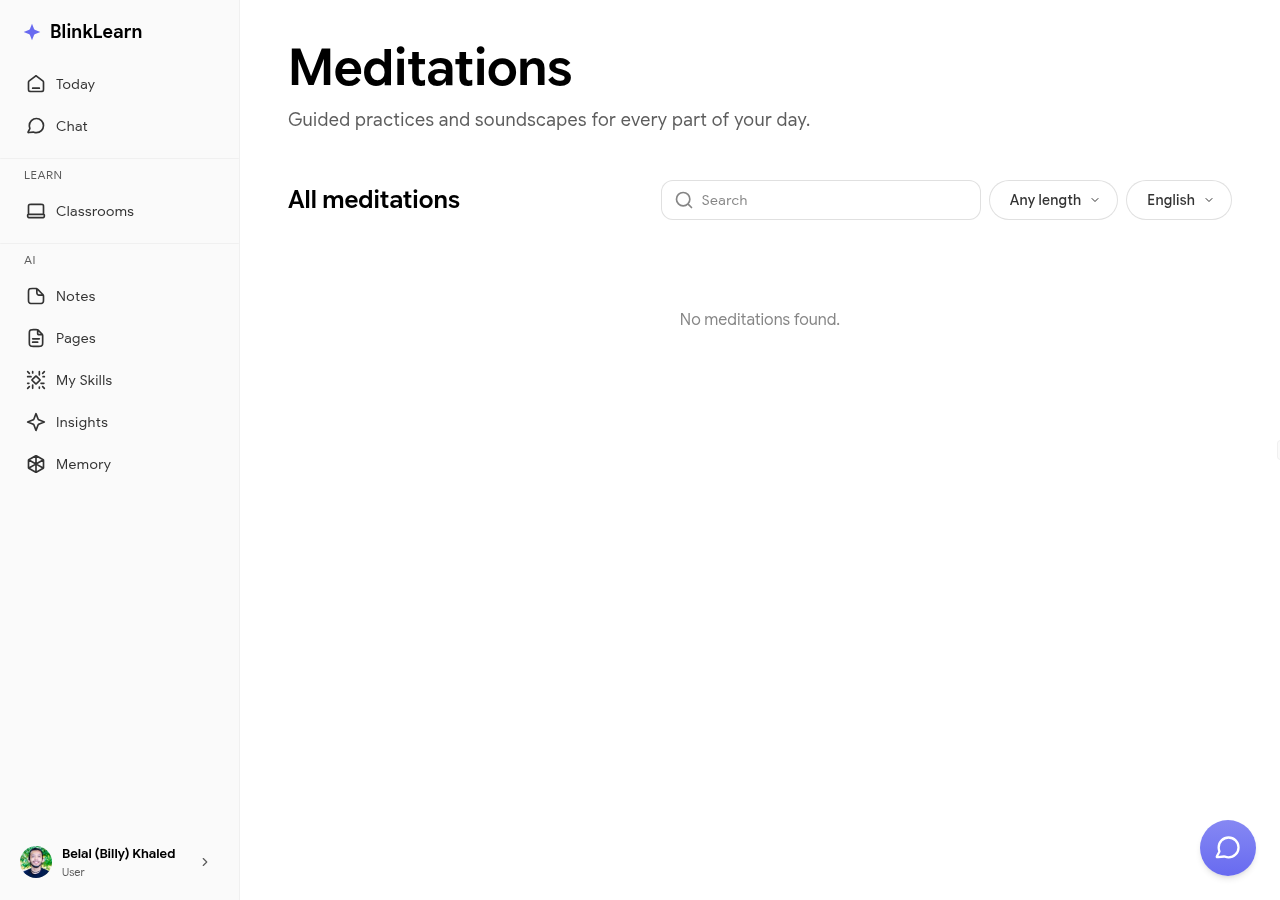
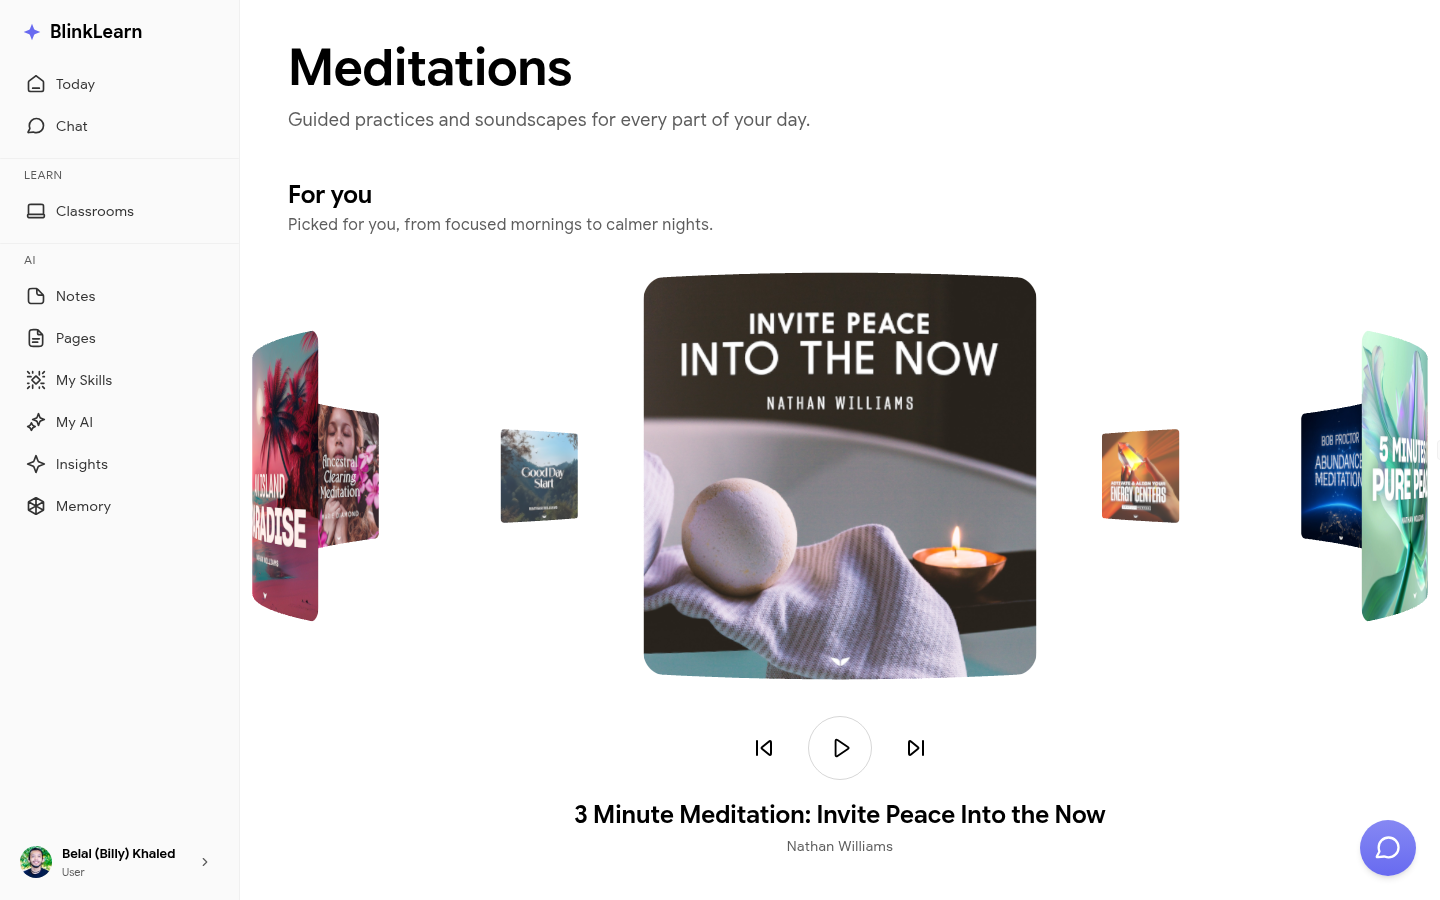
docs: apply EM feedback across Finerminds, BlinkLearn, BlinkLife
Finerminds:
- Add invite-only banner to creating-account.md; remove incorrect open sign-up section

BlinkLearn:
- Rewrite my-ai.md to document all three tabs (Personality, Profile, My Human) with actual UI content observed in the app
- Refresh meditations.png and my-ai.png screenshots (meditations now shows populated catalog)
- Remove /listener and /goals from features index (not discoverable/exposed to users)

BlinkLife:
- Add homepage hero image to index.md
- Add Bridge & WhatsApp coming-soon note to integrations index

diff --git a/docs/blinklearn/features/my-ai.md b/docs/blinklearn/features/my-ai.md
@@ -1,21 +1,71 @@
 # My AI
 
-**My AI** is where you personalise your AI companion Sandra — her name, communication style, and how she interacts with you.
+**My AI** is where you personalise your AI companion Sandra — her name, voice, personality, and how she understands you. Open it from the sidebar.
 
-![My AI settings](../img/my-ai.png)
+![My AI — Personality tab](../img/my-ai.png)
 
-## Companion settings
+My AI has three tabs: **Personality**, **Profile**, and **My Human**.
 
-In My AI you can:
+---
 
-- **Rename your companion** — give Sandra a custom name that feels right for you
-- **Adjust her style** — choose how formal or casual her responses are
-- **Set preferences** — tell Sandra what kinds of nudges and suggestions you find most helpful
+## Personality tab
 
-## Why personalisation matters
+The Personality tab controls how Sandra behaves in conversation. It has two modes:
 
-Sandra's effectiveness grows as she learns about you. The settings in My AI let you guide that process — telling her upfront how you like to communicate and what you're focused on.
+- **Structured** — set a named archetype (e.g. Friend, Coach, Mentor) that drives Sandra's communication style
+- **Soul.md** — write free-form instructions in markdown for full control over her tone and behaviour
 
-## Resetting your companion
+### Archetype
 
-If you want to start fresh, you can reset your companion's personalisation from the My AI page. This clears her stored preferences but keeps your learning history intact.
+Choose one of the preset archetypes as Sandra's baseline character. Each archetype comes with a set of default communication rules. Click **Change** to switch to a different archetype.
+
+### How Sandra Communicates
+
+A list of editable rules that govern Sandra's style — things like tone, humour, and how she handles feedback. Rules are tagged with the archetype they came from. You can add custom rules with **+ Add** or delete any rule individually.
+
+### Learned Adaptations
+
+Sandra picks up patterns from your conversations automatically and stores them here. These are distinct from rules you set manually — they reflect how Sandra has naturally adapted to you over time.
+
+### Boundaries
+
+Rules about what Sandra won't do, regardless of archetype. Use this to set hard limits on topics or behaviour.
+
+### Custom Instructions
+
+Free-form text that Sandra always considers, regardless of the active archetype. Use this for context that doesn't fit into a specific rule.
+
+---
+
+## Profile tab
+
+The Profile tab controls Sandra's identity and voice.
+
+### Identity
+
+Set Sandra's name and avatar. The name appears throughout the app and in chat. Change it to anything that feels right for you.
+
+### Voice
+
+Choose how Sandra sounds in voice mode. Six options are available:
+
+| Voice | Style |
+|-------|-------|
+| Zara | Confident and direct |
+| Mia | Bright and articulate |
+| Lena | Gentle and conversational |
+| Kai | Energetic and expressive |
+| Leo | Deep and unhurried |
+| Theo | Grounded and clear |
+
+Click the play button next to any voice to preview it, then click **Save Changes**.
+
+---
+
+## My Human tab
+
+The My Human tab shows Sandra's model of you — a structured summary of what she has learned about you from your conversations, notes, and learning history.
+
+Click **Generate Profile** to have Sandra produce this summary. If no profile exists yet, she will build one from your existing memories.
+
+You can view the full memory list that feeds into this profile by clicking **View all memories →**, which takes you to [Memories](memories.md).

diff --git a/docs/finerminds/getting-started/creating-account.md b/docs/finerminds/getting-started/creating-account.md
@@ -1,13 +1,17 @@
 # Creating Your Account
 
-Go to [finerminds.com](https://www.finerminds.com) and click **Log in** to create a new account or sign in to an existing one.
+!!! info "Invite-only access"
+    Finerminds is currently invite-only. There is no self-service sign-up. To request access, contact your Mindvalley team admin or ask an existing member to send you an invitation.
 
-## Sign-up options
+## Joining via invitation
 
-Finerminds supports the following sign-in methods:
+When a network admin sends you an invite link:
 
-- **Google** — click **Continue with Google** and select your Google account
-- **Email and password** — enter your email address, then follow the steps to set a password
+1. Open the link in your browser
+2. Sign in with your Mindvalley account (Google or email) or create one if you don't have one yet
+3. You'll be added to the network automatically after signing in
+
+If you already use other Mindvalley products (BlinkLearn, BlinkLife, etc.), use the same email address — your account works across the platform.
 
 ## First-time setup
 
@@ -19,10 +23,6 @@ After signing in for the first time you will be prompted to complete your profil
 4. Add any social links you want to share with the community
 
 You can skip any of these steps and complete them later from [Edit profile](../account/editing-profile.md).
-
-## Joining via invitation
-
-If a network admin sent you an invite link, open it in your browser. You will be asked to sign in or create an account before being added to that network automatically.
 
 ## Already have a Mindvalley account?
 

diff --git a/docs/blinklife/integrations/index.md b/docs/blinklife/integrations/index.md
@@ -9,6 +9,10 @@ Connect BlinkLife with tools you already use to bring your schedule, messages, a
 - [Telegram](telegram.md) — message Sandra directly from Telegram without opening the app
 - [Google Docs](google-docs.md) — attach and reference Google documents inside your notes and pages
 
+## Coming soon
+
+**Bridge** and **WhatsApp** integrations are in development and not yet available to all users. They will appear in **Settings → Integrations** when enabled for your account.
+
 ## Managing integrations
 
 All integrations are managed from **Settings → Integrations** (click your name at the bottom of the sidebar, then select **Settings**).

diff --git a/docs/blinklearn/features/index.md b/docs/blinklearn/features/index.md
@@ -14,5 +14,3 @@
 | [My AI](my-ai.md) | Companion personalisation and settings |
 | [Pages](pages.md) | AI-assisted collaborative documents |
 | [Memories](memories.md) | Everything Sandra has learned about you |
-| [Listener](listener.md) | Hands-free audio mode for your content |
-| [Goals](goals.md) | Learning goals and progress tracking |

diff --git a/docs/blinklife/index.md b/docs/blinklife/index.md
@@ -1,5 +1,7 @@
 # BlinkLife Support
 
+![BlinkLife — Your life, remembered](img/homepage.png)
+
 <div class="grid cards" markdown>
 
 -   :material-play-circle-outline:{ .lg .middle } **Getting Started**
